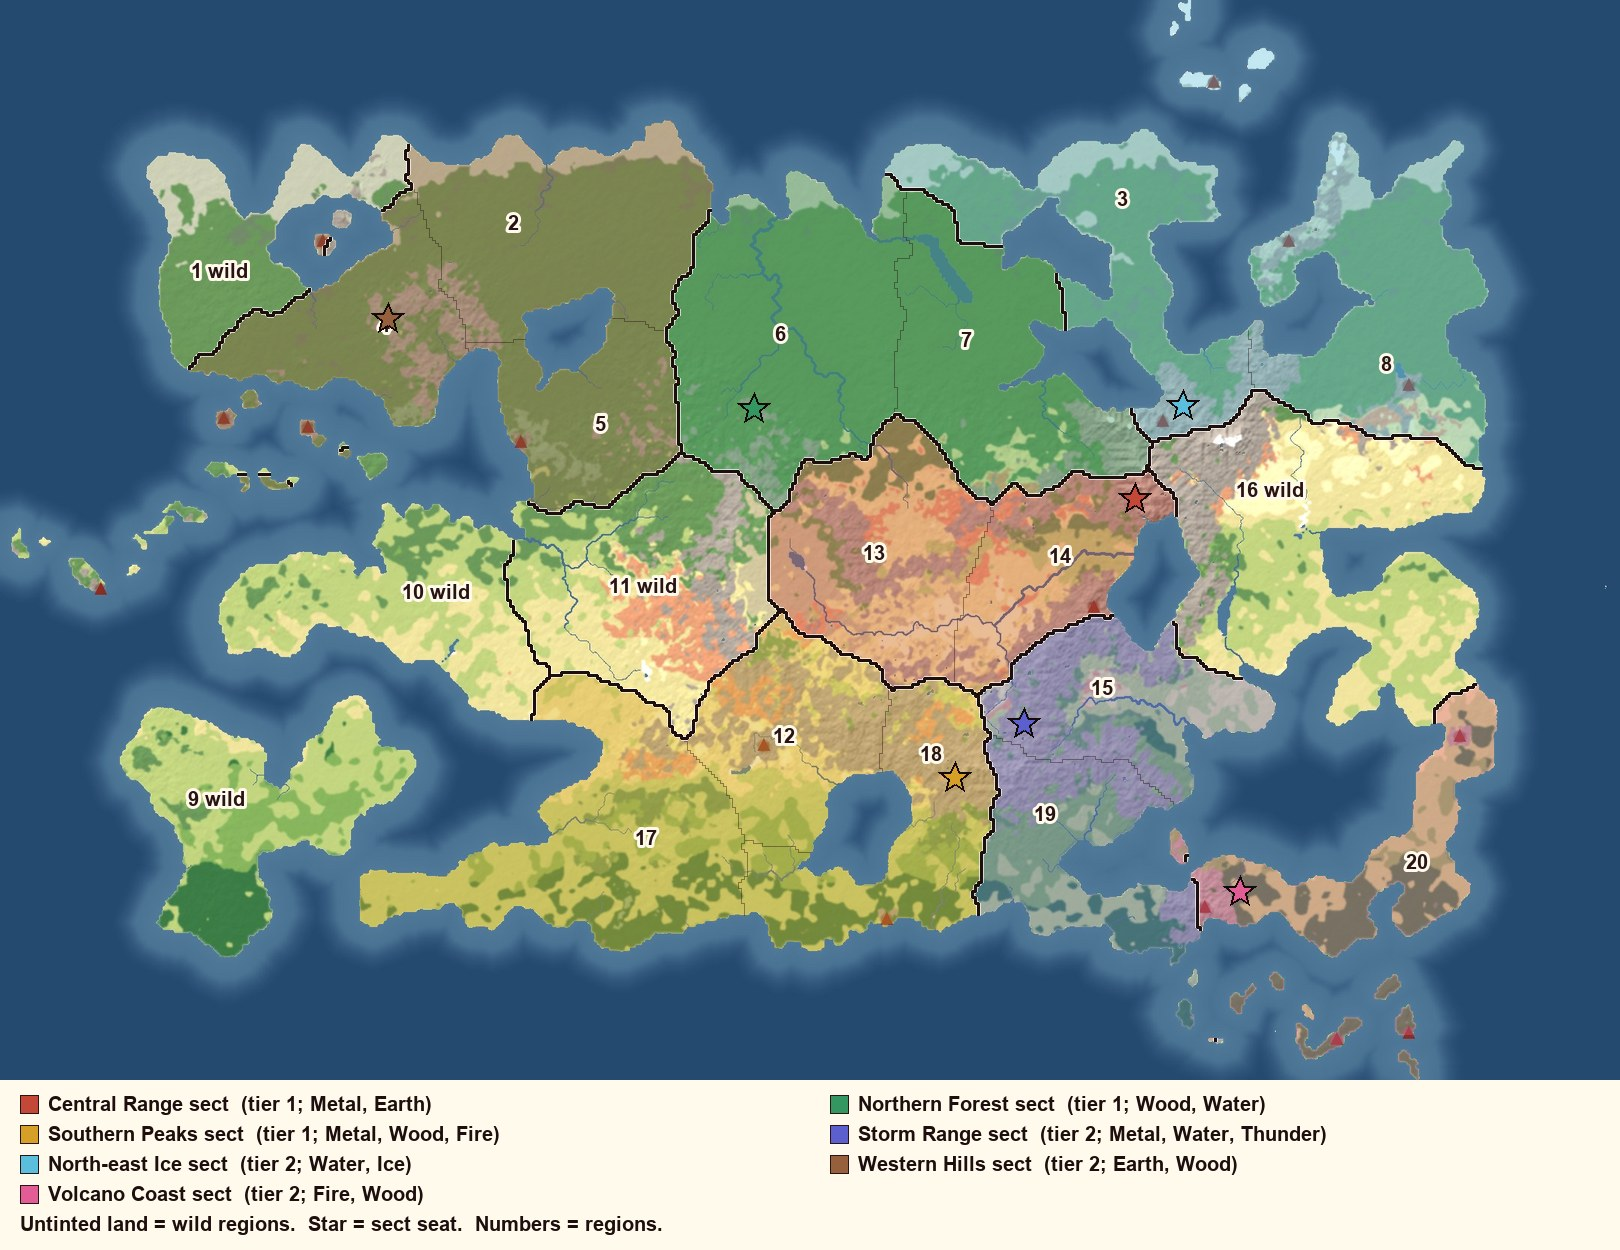
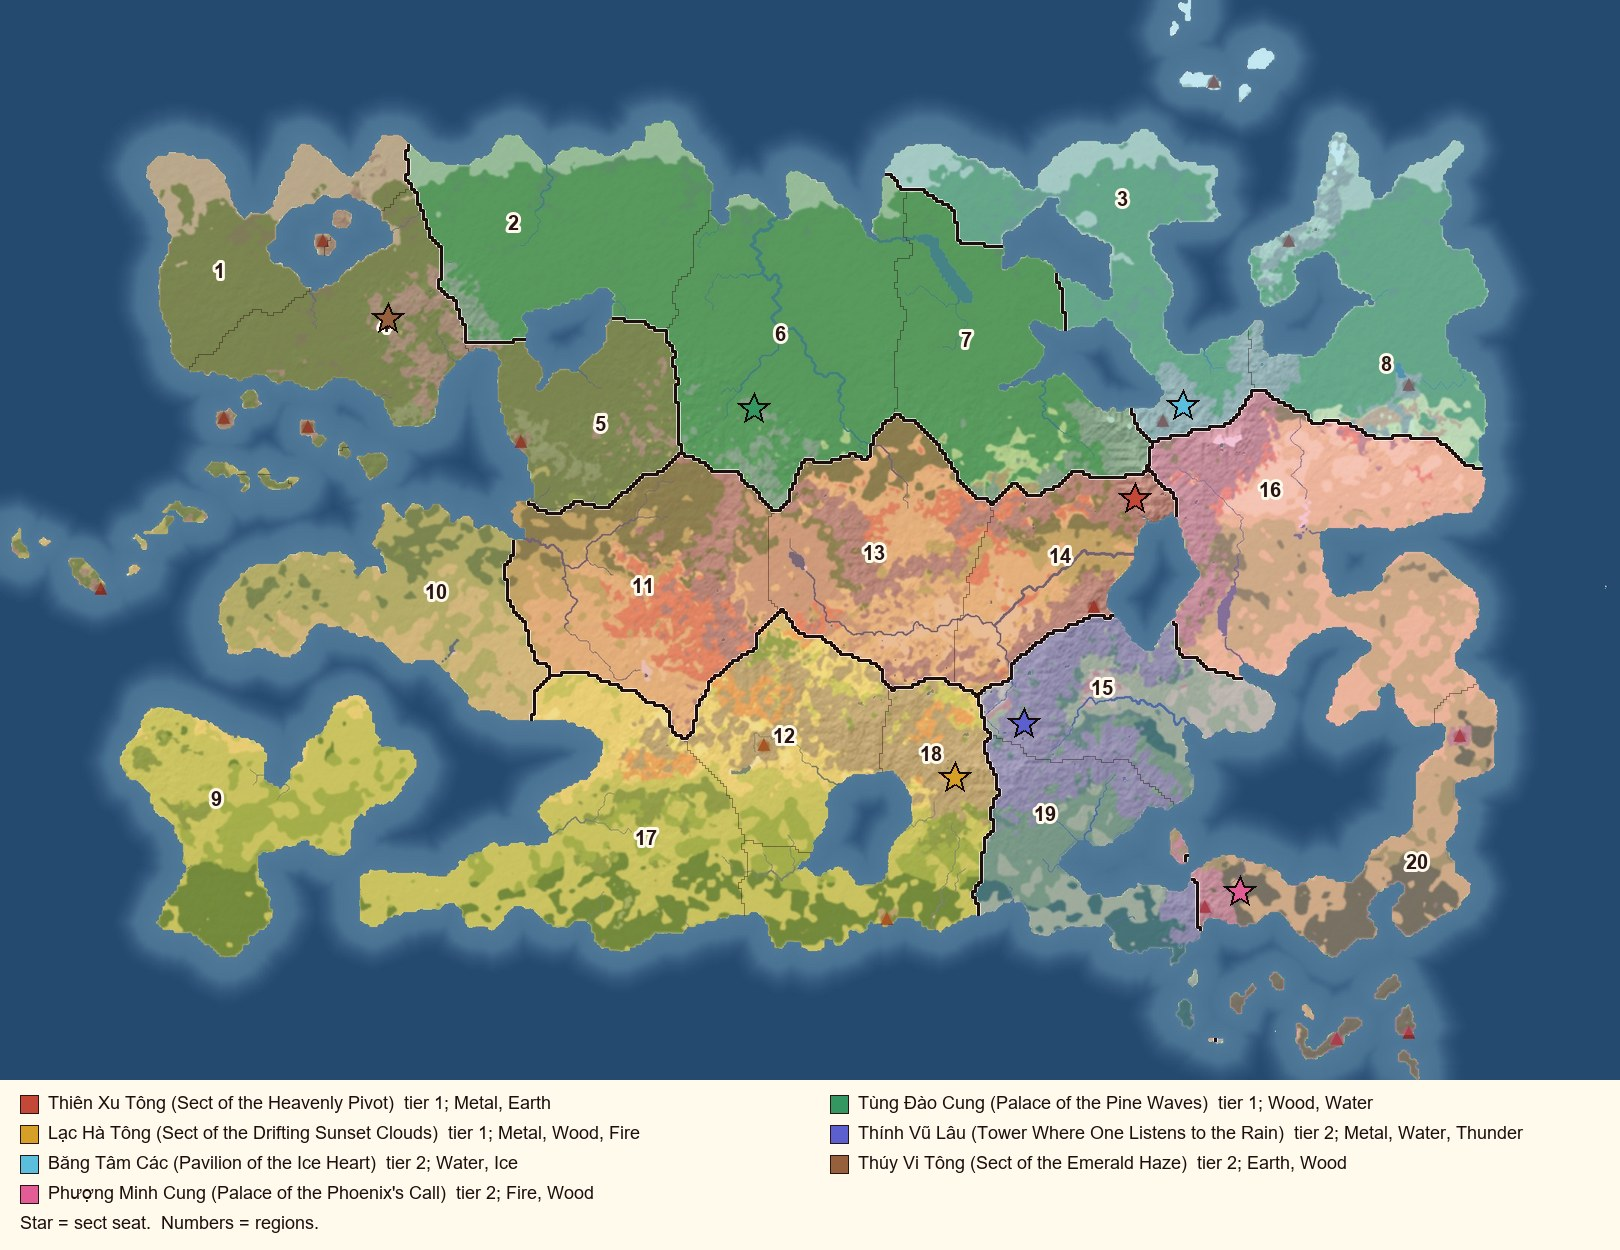
docs: no wild regions; great sects get Han-Viet names
Every region now belongs to a great sect (user decision 2026-11-14).
Travel & Map rule 24 and the Overview no longer allow unowned regions;
wilderness still lies inside every territory.

The five former wild regions are reassigned: 1 and 10 to Thuy Vi Tong,
11 to Thien Xu Tong, 16 to Phuong Minh Cung, 9 to Lac Ha Tong. The
seven sects get romantic Han-Viet names with Han characters and English
meanings; the politics map legend shows them.

Ref: design/gdd/travel-map.md rule 24; design/map/continent-11/README.md

diff --git a/tools/design/map/regions.py b/tools/design/map/regions.py
@@ -660,11 +660,12 @@ def politics(R, sects_path, out, detail_src, scale=3):
         s["seat_lat"] = round(R.c.lat(y), 1)
         s["tiles"] = sum(o["tiles"] for o in R.out if o["id"] in s["regions"])
         s["land_share"] = round(s["tiles"] / land, 3)
-    keep = ("key", "working_name", "tier", "leans", "regions", "seat_region", "seat_tile", "seat_elevation_km",
+    keep = ("key", "working_name", "name_hv", "name_han", "gloss", "tier", "leans", "regions", "seat_region", "seat_tile", "seat_elevation_km",
             "seat_lat", "tiles", "land_share")
-    summary = {"great_sects": [{k: s[k] for k in keep} for s in sects],
+    summary = {"great_sects": [{k: s[k] for k in keep if k in s} for s in sects],
                "wild_regions": P["wild_regions"],
-               "wild_land_share": round(sum(o["tiles"] for o in R.out if o["id"] in P["wild_regions"]) / land, 3)}
+               "wild_land_share": round(sum(o["tiles"] for o in R.out if o["id"] in P["wild_regions"]) / land, 3),
+               "unassigned_regions": [o["id"] for o in R.out if o["id"] not in owner and o["id"] not in P["wild_regions"]]}
     with open(os.path.join(out, "politics_proposal.json"), "w", encoding="utf-8") as f:
         json.dump(summary, f, indent=1, ensure_ascii=False)
 
@@ -720,6 +721,10 @@ def politics(R, sects_path, out, detail_src, scale=3):
             rr = 17 if t % 2 == 0 else 7
             pts.append((px + rr * math.cos(ang), py + rr * math.sin(ang)))
         d.polygon(pts, fill=tuple(sects[k]["colour"]), outline=(20, 10, 10), width=2)
+    try:
+        small = ImageFont.truetype("arial.ttf", 18)
+    except OSError:
+        pass
     rows = (len(sects) + 2) // 2 + 1
     strip = Image.new("RGB", (W * scale, 30 * rows + 20), (255, 250, 235))
     sd = ImageDraw.Draw(strip)
@@ -727,9 +732,11 @@ def politics(R, sects_path, out, detail_src, scale=3):
     for k, s in enumerate(sects):
         lx, yy = 20 + (k % 2) * colw, 12 + 30 * (k // 2)
         sd.rectangle((lx, yy + 3, lx + 18, yy + 21), fill=tuple(s["colour"]), outline=(40, 20, 20))
-        sd.text((lx + 28, yy), f"{s['working_name']}  (tier {s['tier']}; {', '.join(s['leans'])})",
+        name = f"{s['name_hv']} ({s['gloss']})" if s.get("name_hv") else s["working_name"]
+        sd.text((lx + 28, yy), f"{name}  tier {s['tier']}; {', '.join(s['leans'])}",
                 fill=(30, 15, 15), font=small)
-    sd.text((20, 12 + 30 * (rows - 1)), "Untinted land = wild regions.  Star = sect seat.  Numbers = regions.",
+    note = "Star = sect seat.  Numbers = regions." + ("  Untinted land = wild regions." if P["wild_regions"] else "")
+    sd.text((20, 12 + 30 * (rows - 1)), note,
             fill=(30, 15, 15), font=small)
     full = Image.new("RGB", (W * scale, H * scale + strip.height))
     full.paste(base.convert("RGB"), (0, 0))

diff --git a/design/map/continent-11/README.md b/design/map/continent-11/README.md
@@ -17,7 +17,7 @@ fixed-world-decisions.md).
 | `regions.png` | Region index, 540 × 360: the value is the region id, 0 is sea. |
 | `regions.json` | For each region: size, biome mix, height, climate, coast, rivers, lakes, volcanoes, hot springs, ore and ice tiles, and its neighbours with how natural each shared border is. Also the map check. |
 | `regions_overview.jpg` | Region borders and numbers over the detail map. |
-| `sects_proposal.json` | The great-sect proposal: input data, edited by hand. |
+| `sects_proposal.json` | The great-sect proposal: input data, edited by hand (names, territories, colours). |
 | `politics_proposal.json`, `politics_proposal.jpg` | Output: each proposal sect's seat tile and share of the land, and the map with territories tinted. |
 
 **Rebuild:**
@@ -91,38 +91,49 @@ Working descriptions only. Names come later, in Hán-Việt.
 | 19 | Rain-forest range | 3,043 | High mountain 32, bamboo 28 | Wettest (1,907 mm) |
 | 20 | South-east volcano coast | 3,123 | Jungle 38, grassland 38 | 4 volcanoes, 6 hot springs, the longest coast |
 
-## Great sects: proposal (awaiting approval)
+## Great sects: proposal v2 (awaiting approval)
 
-Sects are the only powers. There are no mortal kingdoms (Travel & Map rule 24; the user confirmed this on 2026-11-13).
+Sects are the only powers. There are no mortal kingdoms (Travel & Map rule 24, confirmed by the user 2026-11-13) and no
+wild regions: every region belongs to a great sect (user decision 2026-11-14). Wilderness, the land away from roads
+and towns, still lies inside each territory.
 
-The proposal has **7 great sects** in 2 tiers, plus **5 wild regions**. The 15–25 minor sects are placed in a later step.
+There are **7 great sects** in 2 tiers. The 15–25 minor sects come later and sit inside these territories.
 
-| Sect (working name) | Tier | Leans | Regions (seat first) | Land share | Why here |
-|---|---|---|---|---|---|
-| Central Range sect | 1 | Metal, Earth | 14, 13 | 8.8 % | It holds the crossroads between north, south and east. Both its regions are rich in ore. Its land is small, but every route crosses it. |
-| Northern Forest sect | 1 | Wood, Water | 6, 7 | 13.1 % | The great river basin and the long lake: the purest Wood land, with the most rivers. |
-| Southern Peaks sect | 1 | Metal, Wood, Fire | 18, 12, 17 | 14.6 % | The richest ore on the continent, with jungle and a warm coast behind it. |
-| Storm Range sect | 2 | Metal, Water, Thunder | 15, 19 | 7.4 % | The wettest high mountains: the natural home for authored storm peaks. |
-| North-east Ice sect | 2 | Water, Ice | 3, 8 | 11.0 % | The only ice fields, and a northern range with ore. |
-| Western Hills sect | 2 | Earth, Wood | 4, 5, 2 | 13.0 % | Karst, volcanoes and ore in the hills, with cold forest behind. |
-| Volcano Coast sect | 2 | Fire, Wood | 20 | 3.7 % | The most volcanoes and hot springs. Small, but the purest Fire ground. |
-| **Wild** | — | — | 1, 9, 10, 11, 16 | 28.3 % | See below |
+**Names** are Hán-Việt and lean romantic and poetic (user request 2026-11-14), with the English meaning alongside.
+- **Suffixes vary:** tông (sect), cung (palace), các (pavilion), lâu (tower). A palace or tower name sounds just as
+  grand as a sect name.
+- **Not taken from known novels:** none are the well-known sect names of existing xianxia or wuxia novels.
+
+| Sect | Hán tự | Meaning | Tier | Leans | Regions (seat first) | Land |
+|---|---|---|---|---|---|---|
+| **Thiên Xu Tông** | 天樞宗 | Sect of the Heavenly Pivot. Thiên Xu is the first star of the Northern Dipper, the pivot the sky turns on: the sect at the crossroads of the continent. | 1 | Metal, Earth | 14, 13, 11 | 15.2 % |
+| **Tùng Đào Cung** | 松濤宮 | Palace of the Pine Waves: wind in endless pine forest that sounds like surf. | 1 | Wood, Water | 6, 7, 2 | 19.0 % |
+| **Lạc Hà Tông** | 落霞宗 | Sect of the Drifting Sunset Clouds, after Vương Bột's line *lạc hà dữ cô vụ tề phi*: "sunset clouds fly with a lone wild duck". | 1 | Metal, Wood, Fire | 18, 12, 17, 9 | 19.4 % |
+| **Thính Vũ Lâu** | 聽雨樓 | Tower Where One Listens to the Rain: on the wettest mountains, where storms roll in from the sea. | 2 | Metal, Water, Thunder | 15, 19 | 7.4 % |
+| **Băng Tâm Các** | 冰心閣 | Pavilion of the Ice Heart, after Vương Xương Linh's *nhất phiến băng tâm tại ngọc hồ*: "a heart of ice in a jade vessel", meaning purity. | 2 | Water, Ice | 3, 8 | 11.0 % |
+| **Thúy Vi Tông** | 翠微宗 | Sect of the Emerald Haze: the blue-green mist on distant hills. | 2 | Earth, Wood | 4, 5, 1, 10 | 15.6 % |
+| **Phượng Minh Cung** | 鳳鳴宮 | Palace of the Phoenix's Call: the fire bird of the south, on the volcano coast and the red drylands. | 2 | Fire, Wood | 20, 16 | 12.4 % |
+
+**Where the five former wild regions went:**
+
+| Region | Now held by | Why |
+|---|---|---|
+| 1, far north-west cape | Thúy Vi Tông | It borders the sect's seat region. |
+| 10, west peninsula | Thúy Vi Tông | Reached through the north-west hills. It is dry grassland, and its open neck is the sect's weak border. |
+| 11, west-central badlands | Thiên Xu Tông | Ore-rich. It touches all three tier-1 sects, so it is still the most contested region. |
+| 16, eastern drylands | Phượng Minh Cung | Desert's signature element is Fire. It makes the small volcano sect a real power. |
+| 9, south-west island | Lạc Hà Tông | Across the strait from its jungle coast (17). |
 
 **Why these numbers:**
-- **Tier 1 has 3 sects** to match the ~3 Hóa Thần (difficulty targets): each tier-1 sect would have one at its head.
+- **Tier 1 has 3 sects** to match the ~3 Hóa Thần (difficulty targets): each would have one at its head. The tier-1
+  sects hold 54 % of the land.
 - **The ~27 Nguyên Anh** leave each great sect 2–3, and the rest are loose or demonic cultivators.
 
-**Why each wild region stays wild:**
-- **1, far north-west cape:** cold and poor.
-- **9, south-west island:** cut off by sea, a place for hidden sects and secret realms.
-- **10, west peninsula:** no natural border to hold.
-- **11, west-central badlands:** ore-rich and sitting between all three tier-1 sects, so it is contested ground and a natural flashpoint.
-- **16, eastern drylands:** the largest and highest region, far from every seat.
-
-**Seats** are picked by the tool for now: high ground well inside the seat region. Each seat's tile is in `politics_proposal.json`. Hand-placed sacred summits or spirit veins (rules R27 and R29) can move them.
+**Seats** are picked by the tool for now: high ground well inside the seat region. Each seat's tile is in
+`politics_proposal.json`. Hand-placed sacred summits or spirit veins (rules R27 and R29) can move them.
 
 **Open for the user:**
-1. Approve, move or change the sects and their regions.
-2. Names for the regions and sects.
+1. Approve the territories and the names, or swap any of them.
+2. Names for the 20 regions (Hán-Việt).
 3. Where the 15–25 minor sects sit.
 4. Then the famous places (Travel & Map rule 6).

diff --git a/design/gdd/travel-map.md b/design/gdd/travel-map.md
@@ -41,7 +41,7 @@ where its climate and element allow, and Core Formation needs a place dense enou
 (Pillar 4), and every place, road and discovery is a recorded fact the world remembers (Pillar 5).
 
 Each region produces resources: linh thạch from its mines, herbs, ores, beasts. It also needs some, and a sect
-or nobody controls it. This GDD owns what the map produces and where. Market and Sects build prices, trade,
+controls it. This GDD owns what the map produces and where. Market and Sects build prices, trade,
 income and conflict on that contract.
 
 The terrain is authored once and stays fixed. Anything that changes (mine output, a region's supply, who holds a
@@ -256,8 +256,9 @@ names rather than a place.
 23. **About 20 regions**, each a named set of tiles and places. Regions follow the terrain: mountain ranges, rivers and
     coasts make at least 60 % of their borders.
 24. **Only sects own land.** A sect's **territory** is the regions and sites it holds, and it acts as a country: its
-    towns, its production and its taxes. How it taxes and spends belongs to Sects (#26). Some regions belong to no one
-    (wild lands). A loose cultivator owns only their cave abodes.
+    towns, its production and its taxes. How it taxes and spends belongs to Sects (#26). Every region belongs to a sect;
+    there are no unowned regions (user decision 2026-11-14). Wilderness, the land away from roads and towns, still
+    lies inside every territory. A loose cultivator owns only their cave abodes.
 25. **The production contract.** Once a season the map adds up production by resource kind, for each region and each
     territory, and publishes it with the region's population. **Regional Economy & Trade** (a new system, designed
     next) turns that into market stock, prices and the flow of goods between markets. Until it exists, the Market

diff --git a/design/research/fixed-world-decisions.md b/design/research/fixed-world-decisions.md
@@ -94,7 +94,11 @@ the rewrite is in the list below.
 - **Sects are the only powers. There are no mortal kingdoms** (Travel & Map rule 24, confirmed by the user).
 - **Regions:** 20 drafted along crests, rivers and watersheds by tools/design/map/regions.py
   (design/map/continent-11/README.md).
-- **Great sects:** 7 in two tiers, plus 5 wild regions. This is a proposal awaiting approval; see the same README.
+- **No wild regions** (user decision 2026-11-14): every region belongs to a great sect. Travel & Map rule 24 is
+  updated to match.
+- **Great sects:** 7 in two tiers, with romantic Hán-Việt names (user request 2026-11-14): Thiên Xu Tông,
+  Tùng Đào Cung, Lạc Hà Tông, Thính Vũ Lâu, Băng Tâm Các, Thúy Vi Tông, Phượng Minh Cung. This is a proposal
+  awaiting approval; see the same README.
 
 ## What this changes
 
